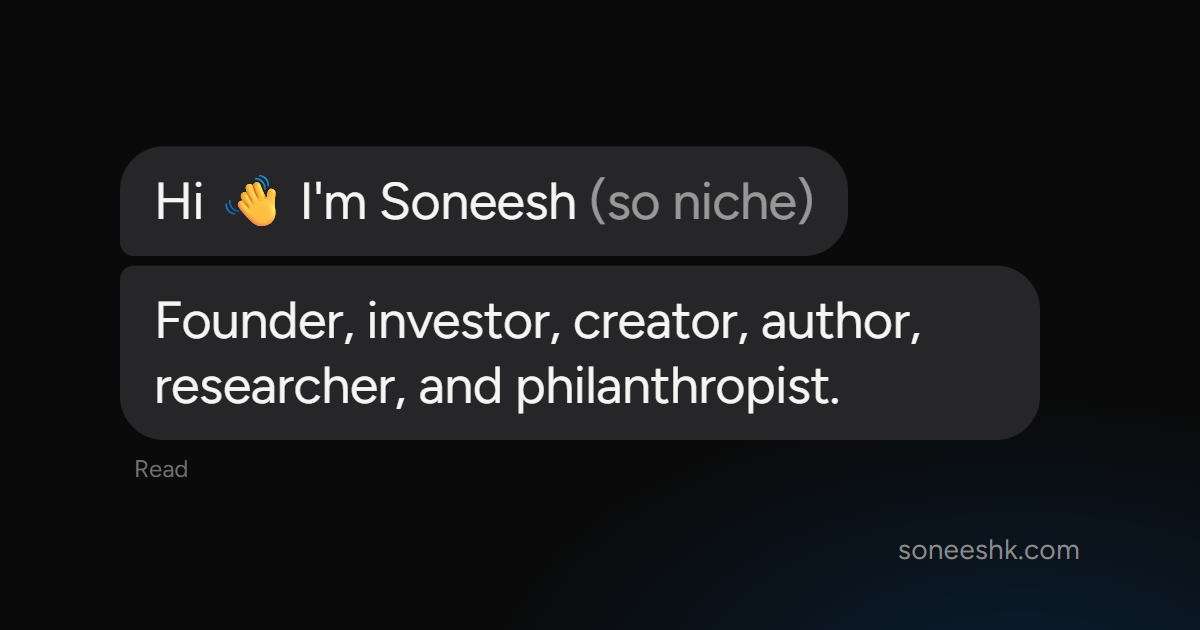
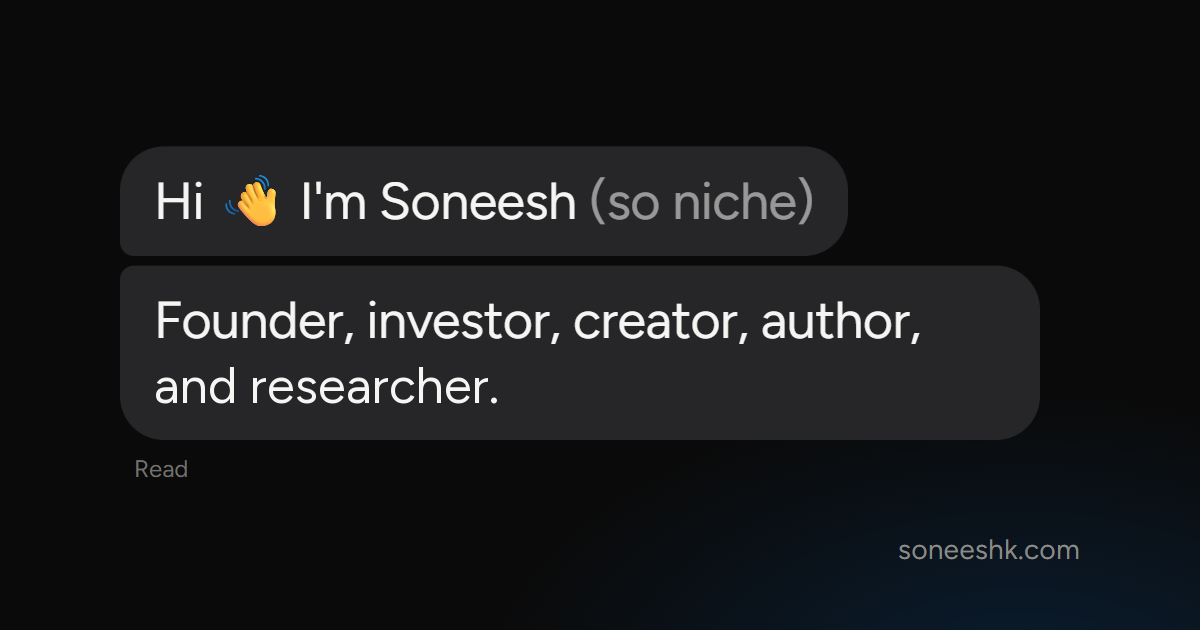
Remove philanthropist from roles, meta, and OG image

Changed region(s): [[0.1233, 0.573, 0.7092, 0.6635]]

diff --git a/index.html b/index.html
@@ -4,20 +4,20 @@
 <meta charset="utf-8">
 <meta name="viewport" content="width=device-width, initial-scale=1, viewport-fit=cover">
 <title>Soneesh</title>
-<meta name="description" content="Founder, investor, creator, author, researcher, and philanthropist.">
+<meta name="description" content="Founder, investor, creator, author, and researcher.">
 <link rel="canonical" href="https://soneeshk.com/">
 <meta property="og:type" content="website">
 <meta property="og:url" content="https://soneeshk.com/">
 <meta property="og:site_name" content="Soneesh">
 <meta property="og:title" content="Hi 👋 I'm Soneesh">
-<meta property="og:description" content="Founder, investor, creator, author, researcher, and philanthropist.">
+<meta property="og:description" content="Founder, investor, creator, author, and researcher.">
 <meta property="og:image" content="https://soneeshk.com/og.png">
 <meta property="og:image:width" content="1200">
 <meta property="og:image:height" content="630">
-<meta property="og:image:alt" content="Text bubbles: Hi, I'm Soneesh (so niche). Founder, investor, creator, author, researcher, and philanthropist.">
+<meta property="og:image:alt" content="Text bubbles: Hi, I'm Soneesh (so niche). Founder, investor, creator, author, and researcher.">
 <meta name="twitter:card" content="summary_large_image">
 <meta name="twitter:title" content="Hi 👋 I'm Soneesh">
-<meta name="twitter:description" content="Founder, investor, creator, author, researcher, and philanthropist.">
+<meta name="twitter:description" content="Founder, investor, creator, author, and researcher.">
 <meta name="twitter:image" content="https://soneeshk.com/og.png">
 <meta name="theme-color" content="#fafaf9" media="(prefers-color-scheme: light)">
 <meta name="theme-color" content="#0a0a0a" media="(prefers-color-scheme: dark)">
@@ -198,7 +198,7 @@ textarea::placeholder,input::placeholder{color:var(--muted)}
     <span class="nm">Soneesh<svg viewBox="0 0 24 24" fill="none" stroke="currentColor" stroke-width="2.4" stroke-linecap="round" stroke-linejoin="round"><path d="M9 6l6 6-6 6"/></svg></span>
   </button>
   <div class="b in" data-id="hi">Hi <span class="wave">👋</span> I'm Soneesh <span class="say">(so niche)</span></div>
-  <div class="b in" data-id="roles">I'm a <a href="https://www.capsulelabs.space" target="_blank" rel="noopener">founder</a>, <a href="https://bostonsquareventures.com" target="_blank" rel="noopener">investor</a>, <a href="https://www.linkedin.com/in/soneeshk" target="_blank" rel="noopener">creator</a>, and <a href="https://chapter-two-bice.vercel.app" target="_blank" rel="noopener">philanthropist</a>. I'm also an <a href="https://www.barnesandnoble.com/w/fasten-your-seatbelt-soneesh-kothagundla/1149310655?ean=9798993879529" target="_blank" rel="noopener">author</a> and <a href="https://scholar.google.com/citations?user=pYouEJ8AAAAJ&amp;hl=en" target="_blank" rel="noopener">researcher</a>.</div>
+  <div class="b in" data-id="roles">I'm a <a href="https://www.capsulelabs.space" target="_blank" rel="noopener">founder</a>, <a href="https://bostonsquareventures.com" target="_blank" rel="noopener">investor</a>, and <a href="https://www.linkedin.com/in/soneeshk" target="_blank" rel="noopener">creator</a>. I'm also an <a href="https://www.barnesandnoble.com/w/fasten-your-seatbelt-soneesh-kothagundla/1149310655?ean=9798993879529" target="_blank" rel="noopener">author</a> and <a href="https://scholar.google.com/citations?user=pYouEJ8AAAAJ&amp;hl=en" target="_blank" rel="noopener">researcher</a>.</div>
   <div class="b in last" data-id="now">It's <span id="clock" style="white-space:nowrap">now</span> in Cambridge.<span id="sleep" hidden> <span id="sleepLead">The amount of sleep I got today:</span> <span id="slept" style="white-space:nowrap"></span></span></div>
   <div class="read" id="read" aria-hidden="true"></div>
   <div class="hint" id="hint">Tap a message to react</div>
